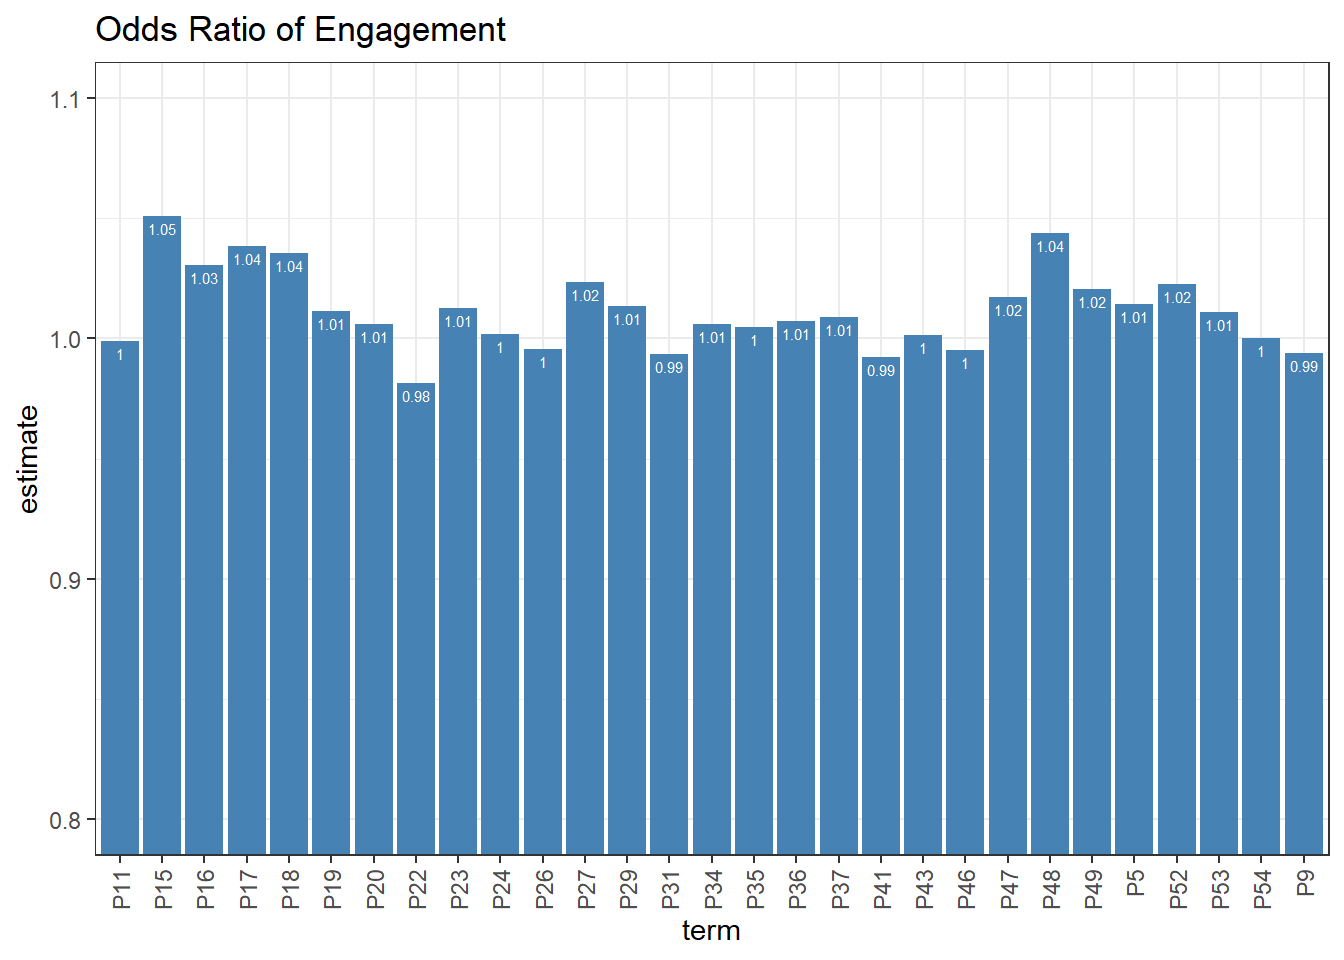
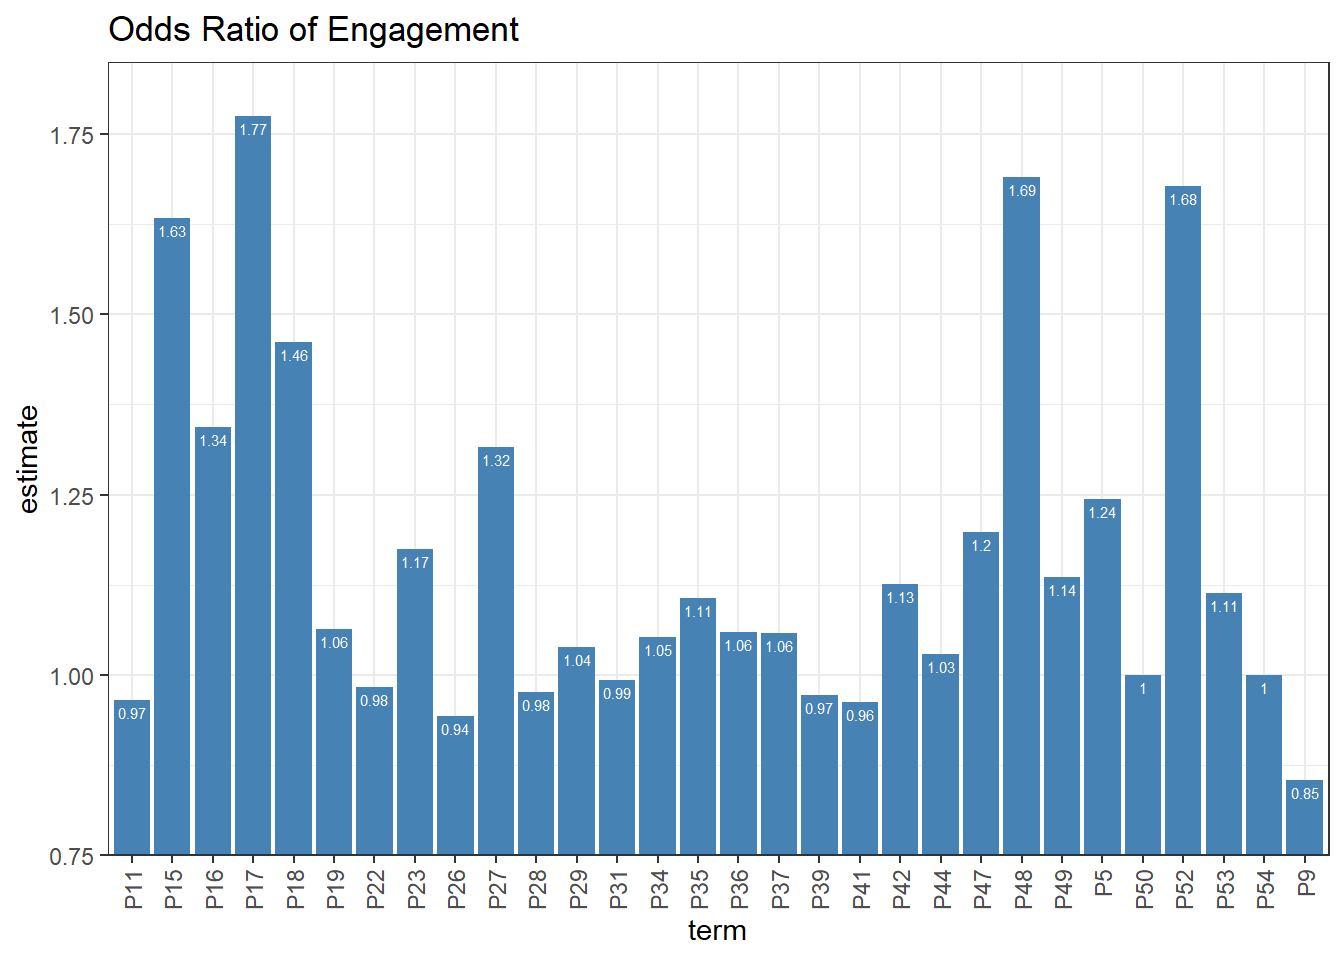
Commit 101

diff --git a/content/post/2022-05-14-people-analytics-employee-engagement/index.html b/content/post/2022-05-14-people-analytics-employee-engagement/index.html
@@ -291,40 +291,40 @@ tidy(eng_glm)</code></pre>
 <pre><code>## # A tibble: 14 × 5
 ##    term          estimate std.error statistic  p.value
 ##    &lt;chr&gt;            &lt;dbl&gt;     &lt;dbl&gt;     &lt;dbl&gt;    &lt;dbl&gt;
-##  1 (Intercept)  -26.2       1.29      -20.4   1.56e-92
-##  2 G2            -0.00871   0.00978    -0.891 3.73e- 1
-##  3 G3            -0.00877   0.0165     -0.533 5.94e- 1
-##  4 G4             0.180     0.0140     12.9   5.51e-38
-##  5 G5            -0.0168    0.00987    -1.70  8.87e- 2
-##  6 G6            -0.0329    0.0129     -2.55  1.08e- 2
-##  7 G7             0.0146    0.0123      1.19  2.35e- 1
-##  8 G8             0.0156    0.00932     1.67  9.40e- 2
-##  9 G9            -0.0206    0.0123     -1.67  9.44e- 2
-## 10 G10            0.0968    0.0178      5.44  5.39e- 8
-## 11 G11            0.0874    0.0129      6.80  1.04e-11
-## 12 Age_d[34,42)  -0.0701    0.180      -0.388 6.98e- 1
-## 13 Age_d[42,71]  -0.0790    0.181      -0.436 6.63e- 1
-## 14 GenderMale    -0.0844    0.191      -0.442 6.59e- 1</code></pre>
+##  1 (Intercept)  -27.3       1.36     -20.1    4.84e-90
+##  2 G2             0.00499   0.0102     0.487  6.26e- 1
+##  3 G3             0.00555   0.0169     0.329  7.42e- 1
+##  4 G4             0.186     0.0147    12.7    1.11e-36
+##  5 G5            -0.0315    0.0104    -3.02   2.55e- 3
+##  6 G6            -0.00945   0.0134    -0.705  4.81e- 1
+##  7 G7             0.0234    0.0132     1.77   7.64e- 2
+##  8 G8             0.0141    0.00954    1.48   1.39e- 1
+##  9 G9            -0.0424    0.0128    -3.31   9.20e- 4
+## 10 G10            0.0895    0.0178     5.04   4.73e- 7
+## 11 G11            0.0785    0.0130     6.04   1.52e- 9
+## 12 Age_d[34,42)  -0.00666   0.186     -0.0358 9.71e- 1
+## 13 Age_d[42,71]  -0.0246    0.185     -0.133  8.94e- 1
+## 14 GenderMale    -0.0748    0.206     -0.363  7.16e- 1</code></pre>
 <p>A more clear interpretation is on terms of the <strong>odds ratio</strong> defined as:</p>
 <p><span class="math display">\[\text{odds}_i = e ^ {\beta_i}\]</span></p>
 <pre class="r"><code>tidy(eng_glm, exponentiate = T)</code></pre>
 <pre><code>## # A tibble: 14 × 5
 ##    term         estimate std.error statistic  p.value
 ##    &lt;chr&gt;           &lt;dbl&gt;     &lt;dbl&gt;     &lt;dbl&gt;    &lt;dbl&gt;
-##  1 (Intercept)  4.03e-12   1.29      -20.4   1.56e-92
-##  2 G2           9.91e- 1   0.00978    -0.891 3.73e- 1
-##  3 G3           9.91e- 1   0.0165     -0.533 5.94e- 1
-##  4 G4           1.20e+ 0   0.0140     12.9   5.51e-38
-##  5 G5           9.83e- 1   0.00987    -1.70  8.87e- 2
-##  6 G6           9.68e- 1   0.0129     -2.55  1.08e- 2
-##  7 G7           1.01e+ 0   0.0123      1.19  2.35e- 1
-##  8 G8           1.02e+ 0   0.00932     1.67  9.40e- 2
-##  9 G9           9.80e- 1   0.0123     -1.67  9.44e- 2
-## 10 G10          1.10e+ 0   0.0178      5.44  5.39e- 8
-## 11 G11          1.09e+ 0   0.0129      6.80  1.04e-11
-## 12 Age_d[34,42) 9.32e- 1   0.180      -0.388 6.98e- 1
-## 13 Age_d[42,71] 9.24e- 1   0.181      -0.436 6.63e- 1
-## 14 GenderMale   9.19e- 1   0.191      -0.442 6.59e- 1</code></pre>
+##  1 (Intercept)  1.34e-12   1.36     -20.1    4.84e-90
+##  2 G2           1.01e+ 0   0.0102     0.487  6.26e- 1
+##  3 G3           1.01e+ 0   0.0169     0.329  7.42e- 1
+##  4 G4           1.20e+ 0   0.0147    12.7    1.11e-36
+##  5 G5           9.69e- 1   0.0104    -3.02   2.55e- 3
+##  6 G6           9.91e- 1   0.0134    -0.705  4.81e- 1
+##  7 G7           1.02e+ 0   0.0132     1.77   7.64e- 2
+##  8 G8           1.01e+ 0   0.00954    1.48   1.39e- 1
+##  9 G9           9.59e- 1   0.0128    -3.31   9.20e- 4
+## 10 G10          1.09e+ 0   0.0178     5.04   4.73e- 7
+## 11 G11          1.08e+ 0   0.0130     6.04   1.52e- 9
+## 12 Age_d[34,42) 9.93e- 1   0.186     -0.0358 9.71e- 1
+## 13 Age_d[42,71] 9.76e- 1   0.185     -0.133  8.94e- 1
+## 14 GenderMale   9.28e- 1   0.206     -0.363  7.16e- 1</code></pre>
 <p>Let´s do a plot to figure out what is going on:</p>
 <pre class="r"><code>tidy(eng_glm, exponentiate = T) %&gt;%
   ggplot(aes(x = term, y = estimate)) +
@@ -370,26 +370,26 @@ caret::confusionMatrix(y_hat, y_act, positive = &#39;1&#39;)</code></pre>
 ## 
 ##           Reference
 ## Prediction    0    1
-##          0  545   97
-##          1  171 1115
+##          0  545   99
+##          1  156 1128
 ##                                           
-##                Accuracy : 0.861           
-##                  95% CI : (0.8447, 0.8761)
-##     No Information Rate : 0.6286          
+##                Accuracy : 0.8677          
+##                  95% CI : (0.8518, 0.8826)
+##     No Information Rate : 0.6364          
 ##     P-Value [Acc &gt; NIR] : &lt; 2.2e-16       
 ##                                           
-##                   Kappa : 0.6959          
+##                   Kappa : 0.7091          
 ##                                           
-##  Mcnemar&#39;s Test P-Value : 8.227e-06       
+##  Mcnemar&#39;s Test P-Value : 0.0004534       
 ##                                           
-##             Sensitivity : 0.9200          
-##             Specificity : 0.7612          
-##          Pos Pred Value : 0.8670          
-##          Neg Pred Value : 0.8489          
-##              Prevalence : 0.6286          
-##          Detection Rate : 0.5783          
-##    Detection Prevalence : 0.6670          
-##       Balanced Accuracy : 0.8406          
+##             Sensitivity : 0.9193          
+##             Specificity : 0.7775          
+##          Pos Pred Value : 0.8785          
+##          Neg Pred Value : 0.8463          
+##              Prevalence : 0.6364          
+##          Detection Rate : 0.5851          
+##    Detection Prevalence : 0.6660          
+##       Balanced Accuracy : 0.8484          
 ##                                           
 ##        &#39;Positive&#39; Class : 1               
 ## </code></pre>
@@ -410,26 +410,26 @@ caret::confusionMatrix(y_hat, y_act, positive = &#39;1&#39;)</code></pre>
 ## 
 ##           Reference
 ## Prediction   0   1
-##          0 173  38
-##          1  52 380
+##          0 184  44
+##          1  56 359
 ##                                           
-##                Accuracy : 0.86            
-##                  95% CI : (0.8308, 0.8859)
-##     No Information Rate : 0.6501          
+##                Accuracy : 0.8445          
+##                  95% CI : (0.8141, 0.8716)
+##     No Information Rate : 0.6267          
 ##     P-Value [Acc &gt; NIR] : &lt;2e-16          
 ##                                           
-##                   Kappa : 0.6879          
+##                   Kappa : 0.6642          
 ##                                           
-##  Mcnemar&#39;s Test P-Value : 0.1706          
+##  Mcnemar&#39;s Test P-Value : 0.2713          
 ##                                           
-##             Sensitivity : 0.9091          
-##             Specificity : 0.7689          
-##          Pos Pred Value : 0.8796          
-##          Neg Pred Value : 0.8199          
-##              Prevalence : 0.6501          
-##          Detection Rate : 0.5910          
-##    Detection Prevalence : 0.6719          
-##       Balanced Accuracy : 0.8390          
+##             Sensitivity : 0.8908          
+##             Specificity : 0.7667          
+##          Pos Pred Value : 0.8651          
+##          Neg Pred Value : 0.8070          
+##              Prevalence : 0.6267          
+##          Detection Rate : 0.5583          
+##    Detection Prevalence : 0.6454          
+##       Balanced Accuracy : 0.8287          
 ##                                           
 ##        &#39;Positive&#39; Class : 1               
 ## </code></pre>
@@ -476,16 +476,23 @@ engagement_df$ENG = factor(engagement_df$ENG)
 eng_split = initial_split(engagement_df)
 eng_train = training(eng_split)
 eng_test = testing(eng_split)</code></pre>
-<p>The Second step is to reate a recipe and a model:</p>
+<p>The Second step is to create a recipe and a model:</p>
 <pre class="r"><code>message(&#39;Create a Model================================================&#39;)</code></pre>
 <pre><code>## Create a Model================================================</code></pre>
 <pre class="r"><code>set.seed(1234)
+
+
 
 #Set up Engine
 logistic_model &lt;- logistic_reg(penalty = tune(), mixture = 1) %&gt;% 
   set_engine(&quot;glmnet&quot;)
 
-model_Q = ENG ~ P5 + P6 + P7 + P8 + P9 + P10 + P11 + P12 + P13 + P14 + P15 + P16 + P17 + P18 + P19 + P20 + P21 + P22 + P23 + P24 + P25 + P26 + P27 + P28 + P29 + P30 + P31 + P32 + P33 + P34 + P35 + P36 + P37 + P38 + P39 + P40 + P41 + P42 + P43 + P44 + P45 + P46 + P47 + P48 + P49 + P50 + P51 + P52 + P53 + P54 + P55
+#setup Workflow
+eng_wflow = workflow() %&gt;%
+  add_model(logistic_model)
+
+
+model_Q = ENG ~ P5 + P6 + P7 + P8 + P9 + P10 + P11 + P12 + P13 + P14 + P15 + P16 + P17 + P18 + P19 + P20 + P21 + P22 + P23 + P24 + P25 + P26 + P27 + P28 + P29 + P30 + P31 + P32 + P33 + P34 + P35 + P36 + P37 + P38 + P39 + P40 + P41 + P42 + P43 + P44 + P45 + P46 + P47 + P48 + P49 + P50 + P51 + P52 + P53 + P54 + P55 + Age_d + Gender
 
 #Create folds
 eng_cv = vfold_cv(eng_train, v = 10)
@@ -494,14 +501,16 @@ eng_cv = vfold_cv(eng_train, v = 10)
 message(&#39;Create a Recipe================================================&#39;)</code></pre>
 <pre><code>## Create a Recipe================================================</code></pre>
 <pre class="r"><code>eng_recipe = recipe(model_Q,
-                    data = eng_train,
-                    step_dummy(all_nominal_predictors()),
-                    step_center(all_numeric()),
-                    step_scale(all_numeric()))
+                    data = eng_train) %&gt;%
+                    step_center(all_numeric()) %&gt;%
+                    step_scale(all_numeric()) %&gt;%
+                    step_dummy(Gender, Age_d) %&gt;%
+  # estimate the means and standard deviations
+  prep(training = eng_train, retain = TRUE)
+
 
 #setup Workflow
-eng_wflow = workflow() %&gt;%
-  add_model(logistic_model) %&gt;%
+eng_wflow =eng_wflow %&gt;%
   add_recipe(eng_recipe)</code></pre>
 <p>Now we are ready to fit the model:</p>
 <pre class="r"><code>#Create a grid of potential values for lambda:
@@ -544,7 +553,7 @@ tidy(lasso_params) %&gt;%
   mutate(estimate = exp(estimate)) %&gt;%
   ggplot(aes(x = term, y = estimate)) +
   geom_col(fill = &#39;steelblue&#39;) +
-  coord_cartesian(ylim = c(0.8, 1.1)) +
+  coord_cartesian(ylim = c(0.8, 1.8)) +
   geom_text(aes(label = round(estimate, 2)), color = &#39;white&#39;, 
             vjust = 1.5, size = 2) +
   labs(title = &#39;Odds Ratio of Engagement&#39;) +
@@ -557,7 +566,7 @@ tidy(lasso_params) %&gt;%
 
 eng_lasso_final %&gt;%
   fit(eng_train) %&gt;%
-  pull_workflow_fit() %&gt;%
+  extract_fit_parsnip() %&gt;%
   vip::vi(lambda = max_accuracy$penalty) %&gt;%
   mutate(Importance = abs(Importance),
          Variable = fct_reorder(Variable, Importance)) %&gt;%
@@ -566,14 +575,12 @@ eng_lasso_final %&gt;%
   geom_col() +
   scale_x_continuous(expand = c(0, 0)) +
   labs(y = NULL)</code></pre>
-<pre><code>## Warning: `pull_workflow_fit()` was deprecated in workflows 0.2.3.
-## Please use `extract_fit_parsnip()` instead.</code></pre>
 <p><img src="{{< blogdown/postref >}}index_files/figure-html/unnamed-chunk-18-2.png" width="672" /></p>
 <p>Now, instead of having 50 questions, we have around 19 questions to predict Engagement. Based on the <strong>Variable Importance Plot</strong> we figure of that P15, P48 and P117 are the top 3 Questions to focus.</p>
 <p>Let´s compute accuracy and recall:</p>
 <pre class="r"><code>#The last model
 lambda = max_accuracy$penalty
-eng_last_model = logistic_reg(penalty = 0.009102982, 
+eng_last_model = logistic_reg(penalty = 0.02329952, 
                               mixture = 1) %&gt;%
   set_engine(&#39;glmnet&#39;)
 
@@ -592,28 +599,87 @@ caret::confusionMatrix(fitdata$.pred_class, fitdata$ENG, positive = &#39;1&#39;)
 ## 
 ##           Reference
 ## Prediction   0   1
-##          0 179  35
-##          1  47 382
+##          0 173  27
+##          1  45 398
 ##                                           
-##                Accuracy : 0.8725          
-##                  95% CI : (0.8442, 0.8973)
-##     No Information Rate : 0.6485          
-##     P-Value [Acc &gt; NIR] : &lt;2e-16          
+##                Accuracy : 0.888           
+##                  95% CI : (0.8611, 0.9113)
+##     No Information Rate : 0.661           
+##     P-Value [Acc &gt; NIR] : &lt; 2e-16         
 ##                                           
-##                   Kappa : 0.7168          
+##                   Kappa : 0.745           
 ##                                           
-##  Mcnemar&#39;s Test P-Value : 0.2245          
+##  Mcnemar&#39;s Test P-Value : 0.04513         
 ##                                           
-##             Sensitivity : 0.9161          
-##             Specificity : 0.7920          
-##          Pos Pred Value : 0.8904          
-##          Neg Pred Value : 0.8364          
-##              Prevalence : 0.6485          
-##          Detection Rate : 0.5941          
-##    Detection Prevalence : 0.6672          
-##       Balanced Accuracy : 0.8541          
+##             Sensitivity : 0.9365          
+##             Specificity : 0.7936          
+##          Pos Pred Value : 0.8984          
+##          Neg Pred Value : 0.8650          
+##              Prevalence : 0.6610          
+##          Detection Rate : 0.6190          
+##    Detection Prevalence : 0.6890          
+##       Balanced Accuracy : 0.8650          
 ##                                           
 ##        &#39;Positive&#39; Class : 1               
 ## </code></pre>
-<p>Now it´s time for an action plan!!</p>
+</div>
+<div id="machine-learning-interpretability" class="section level1">
+<h1>Machine Learning Interpretability</h1>
+<p>There is no mathematical definition of interpretability. A (non-mathematical) definition I like by Miller (2017)¹⁰ is: Interpretability is the degree to which a human can understand the cause of a decision. Another one is: Interpretability is the degree to which a human can consistently predict the model’s result ¹¹. The higher the interpretability of a machine learning model, the easier it is for someone to comprehend why certain decisions or predictions have been made.</p>
+<p>A model is better interpretable than another model if its decisions are easier for a human to comprehend than decisions from the other model. I will use both the terms interpretable and explainable interchangeably.</p>
+<p>Methods for machine learning interpretability can be classified according to various criteria. Intrinsic or post hoc? This criteria distinguishes whether interpretability is achieved by restricting the complexity of the machine learning model (intrinsic) or by applying methods that analyze the model after training (post hoc).</p>
+<p>Intrinsic interpretability refers to machine learning models that are considered interpretable due to their simple structure, such as short decision trees or sparse linear models.</p>
+<p>Post hoc interpretability refers to the application of interpretation methods after model training. Permutation feature importance is, for example, a post hoc interpretation method. Post hoc methods can also be applied to intrinsically interpretable models. For example, permutation feature importance can be computed for decision trees.</p>
+<p>Result of the interpretation method The various interpretation methods can be roughly differentiated according to their results.</p>
+<ul>
+<li><p>Feature summary statistic: Many interpretation methods provide summary statistics for each feature. Some methods return a single number per feature, such as feature importance, or a more complex result, such as the pairwise feature interaction strengths, which consist of a number for each feature pair.</p></li>
+<li><p>Feature summary visualization: Most of the feature summary statistics can also be visualized. Some feature summaries are actually only meaningful if they are visualized and a table would be a wrong choice. The partial dependence of a feature is such a case. Partial dependence plots are curves that show a feature and the average predicted outcome. The best way to present partial dependences is to actually draw the curve instead of printing the coordinates.</p></li>
+<li><p>Model internals (e.g. learned weights): The interpretation of intrinsically interpretable models falls into this category. Examples are the weights in linear models or the learned tree structure (the features and thresholds used for the splits) of decision trees. The lines are blurred between model internals and feature summary statistic in, for example, linear models, because the weights are both model internals and summary statistics for the features at the same time.</p></li>
+<li><p>Data point: This category includes all methods that return data points (already existent or newly created) to make a model interpretable. One method is called counterfactual explanations. To explain the prediction of a data instance, the method finds a similar data point by changing some of the features for which the predicted outcome changes in a relevant way (e.g. a flip in the predicted class). Another example is the identification of prototypes of predicted classes. To be useful, interpretation methods that output new data points require that the data points themselves can be interpreted. This works well for images and texts, but is less useful for tabular data with hundreds of features.</p></li>
+<li><p>Intrinsically interpretable model: One solution to interpreting black box models is to approximate them (either globally or locally) with an interpretable model. The interpretable model itself is interpreted by looking at internal model parameters or feature summary statistics.</p></li>
+</ul>
+<pre class="r"><code>require(DALEXtra)</code></pre>
+<pre><code>## Loading required package: DALEXtra</code></pre>
+<pre><code>## Loading required package: DALEX</code></pre>
+<pre><code>## Welcome to DALEX (version: 2.4.1).
+## Find examples and detailed introduction at: http://ema.drwhy.ai/</code></pre>
+<pre><code>## 
+## Attaching package: &#39;DALEX&#39;</code></pre>
+<pre><code>## The following object is masked from &#39;package:ggmosaic&#39;:
+## 
+##     titanic</code></pre>
+<pre><code>## The following object is masked from &#39;package:dplyr&#39;:
+## 
+##     explain</code></pre>
+<pre class="r"><code>set.seed(1234)
+
+#Set Variables on the Model
+vip_features &lt;- c(&#39;P5&#39;, &#39;P6&#39;, &#39;P7&#39;, &#39;P8&#39;, &#39;P9&#39;, &#39;P10&#39;, &#39;P11&#39;, &#39;P12&#39;, &#39;P13&#39;, &#39;P14&#39;, &#39;P16&#39;, &#39;P18&#39;, &#39;P19&#39;, &#39;P20&#39;, &#39;P21&#39;, &#39;P22&#39;, &#39;P23&#39;, &#39;P24&#39;, &#39;P25&#39;, &#39;P26&#39;, &#39;P27&#39;, &#39;P28&#39;, &#39;P29&#39;, &#39;P30&#39;, &#39;P31&#39;, &#39;P32&#39;, &#39;P33&#39;, &#39;P34&#39;, &#39;P35&#39;, &#39;P36&#39;, &#39;P37&#39;, &#39;P38&#39;, &#39;P39&#39;, &#39;P40&#39;, &#39;P41&#39;, &#39;P42&#39;, &#39;P43&#39;, &#39;P44&#39;, &#39;P45&#39;, &#39;P46&#39;, &#39;P47&#39;, &#39;P49&#39;, &#39;P50&#39;, &#39;P51&#39;, &#39;P52&#39;, &#39;P53&#39;, &#39;P54&#39;, &#39;P55&#39;, &#39;Age_d&#39;, &#39;Gender&#39;,&#39;P15&#39;, &#39;P17&#39;, &#39;P48&#39;)
+
+#Select variables
+vip_train &lt;- 
+  eng_train %&gt;% 
+  select(all_of(vip_features))
+
+#Fit the final model
+fitm = eng_lasso_final %&gt;%
+  fit(eng_train)
+
+
+#Get the explainer
+explainer_lm = explain_tidymodels(fitm, 
+                                  data = vip_train, 
+                                  y = eng_train$ENG,
+                                  label = &quot;1&quot;,
+                                  verbose = FALSE)</code></pre>
+<pre><code>## Warning in Ops.factor(y, predict_function(model, data)): &#39;-&#39; not meaningful for
+## factors</code></pre>
+<pre class="r"><code>#Select Individual #200
+manager &lt;- engagement_df[200, ]
+
+lm_breakdown = predict_parts(explainer = explainer_lm, 
+                             new_observation = manager)
+#Plot Results
+plot(lm_breakdown)</code></pre>
+<p><img src="{{< blogdown/postref >}}index_files/figure-html/unnamed-chunk-20-1.png" width="672" /></p>
 </div>
